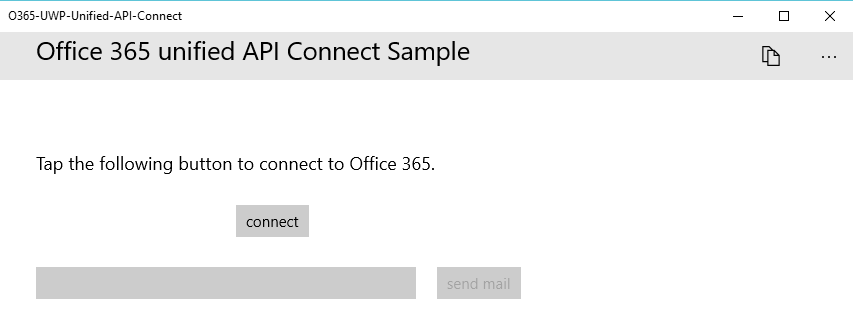
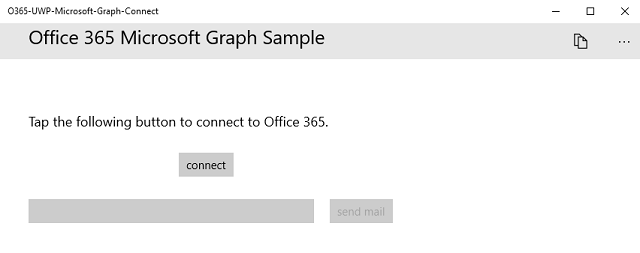
Updating UI and screen shots.

diff --git a/O365-UWP-Unified-API-Connect/MainPage.xaml b/O365-UWP-Unified-API-Connect/MainPage.xaml
@@ -36,7 +36,7 @@
     <Page.TopAppBar>
         <CommandBar >
             <CommandBar.Content>
-                <TextBlock Grid.Row="0" Grid.Column="1" x:Name="appTitle" Text="Office 365 unified API Connect Sample"
+                <TextBlock Grid.Row="0" Grid.Column="1" x:Name="appTitle" Text="Office 365 Microsoft Graph Sample"
                        HorizontalAlignment="Center" 
                        VerticalAlignment="Center" 
                        TextWrapping="Wrap"
